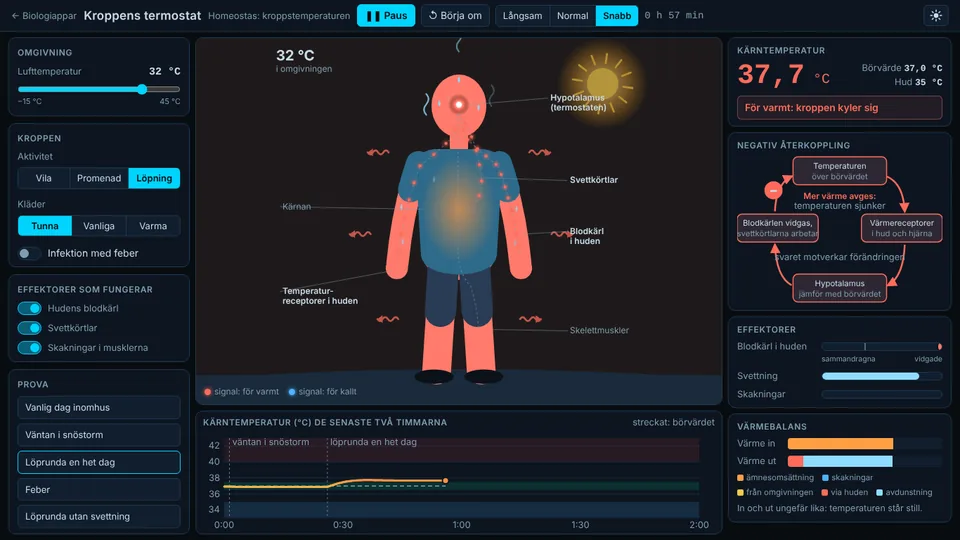
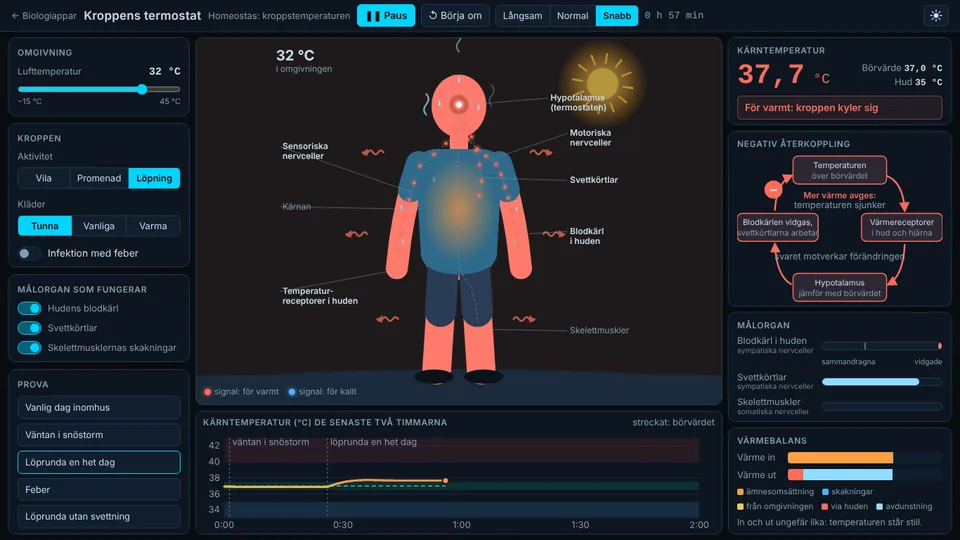
Kroppens termostat: bokens begrepp, målorgan i stället för effektorer
Samma ändring som i pedagogiska_webbappar: målorgan i stället för effektor,
etiketter för sensoriska och motoriska nervceller och vilken del av
nervsystemet som styr varje målorgan. Biologisidans kort, README och
skärmbilderna följer med.

Claude-Session: https://claude.ai/code/session_01HNnAZBM4jYtv7NB6EJuSMz

diff --git a/kroppstemperatur/index.html b/kroppstemperatur/index.html
@@ -166,7 +166,8 @@
 
   .matare { display: flex; flex-direction: column; gap: 7px; }
   .matare-rad { display: grid; grid-template-columns: 112px 1fr; align-items: center; gap: 8px; font-size: 13px; }
-  .matare-rad .namn { color: var(--text-dim); }
+  .matare-rad .namn { color: var(--text-dim); line-height: 1.2; }
+  .matare-rad .namn small { display: block; font-size: 10.5px; opacity: .8; }
   .stapel { height: 12px; border-radius: 6px; background: var(--bg3); border: 1px solid var(--border); position: relative; overflow: hidden; }
   .stapel .fyll { position: absolute; top: 0; bottom: 0; left: 0; width: 0; border-radius: 6px; }
   .stapel .mitt { position: absolute; top: -1px; bottom: -1px; width: 2px; background: var(--text-dim); opacity: .6; }
@@ -256,11 +257,11 @@
       <label class="vaxel feber" style="margin-top:14px"><input type="checkbox" id="feber"><span class="spar"></span>Infektion med feber</label>
     </section>
     <section class="panel">
-      <h2>Effektorer som fungerar</h2>
+      <h2>Målorgan som fungerar</h2>
       <div class="falt" style="gap:9px">
         <label class="vaxel"><input type="checkbox" id="eff-blodkarl" checked><span class="spar"></span>Hudens blodkärl</label>
         <label class="vaxel"><input type="checkbox" id="eff-svett" checked><span class="spar"></span>Svettkörtlar</label>
-        <label class="vaxel"><input type="checkbox" id="eff-skak" checked><span class="spar"></span>Skakningar i musklerna</label>
+        <label class="vaxel"><input type="checkbox" id="eff-skak" checked><span class="spar"></span>Skelettmusklernas skakningar</label>
       </div>
     </section>
     <section class="panel">
@@ -291,14 +292,14 @@
       <svg id="slinga-svg" viewBox="0 0 294 212" role="img" aria-label="Återkopplingsslingan"></svg>
     </section>
     <section class="panel">
-      <h2>Effektorer</h2>
+      <h2>Målorgan</h2>
       <div class="matare">
         <div>
-          <div class="matare-rad"><span class="namn">Blodkärl i huden</span><div class="stapel" id="stapel-karl"><div class="mitt" style="left:35%"></div><div class="markor"></div></div></div>
+          <div class="matare-rad"><span class="namn">Blodkärl i huden<small>sympatiska nervceller</small></span><div class="stapel" id="stapel-karl"><div class="mitt" style="left:35%"></div><div class="markor"></div></div></div>
           <div class="matare-rad"><span></span><div class="stapel-skala"><span>sammandragna</span><span>vidgade</span></div></div>
         </div>
-        <div class="matare-rad"><span class="namn">Svettning</span><div class="stapel" id="stapel-svett"><div class="fyll" style="background:var(--svett)"></div></div></div>
-        <div class="matare-rad"><span class="namn">Skakningar</span><div class="stapel" id="stapel-skak"><div class="fyll" style="background:var(--kall)"></div></div></div>
+        <div class="matare-rad"><span class="namn">Svettkörtlar<small>sympatiska nervceller</small></span><div class="stapel" id="stapel-svett"><div class="fyll" style="background:var(--svett)"></div></div></div>
+        <div class="matare-rad"><span class="namn">Skelettmuskler<small>somatiska nervceller</small></span><div class="stapel" id="stapel-skak"><div class="fyll" style="background:var(--kall)"></div></div></div>
       </div>
     </section>
     <section class="panel">
@@ -334,7 +335,7 @@ const klamp = (x, a, b) => Math.max(a, Math.min(b, x));
    En kärna med en temperatur T (°C) och värmekapacitet C. Värme bildas av
    ämnesomsättning och skakningar och avges via huden (strålning, ledning,
    konvektion) och genom avdunstning av svett. Hypotalamus jämför en samlad
-   temperatursignal (kärnan och huden) med börvärdet och styr tre effektorer,
+   temperatursignal (kärnan och huden) med börvärdet och styr tre målorgan,
    som var och en följer sin styrsignal med en fördröjning.
    ========================================================================= */
 const PARAM = {
@@ -349,7 +350,7 @@ const PARAM = {
   vNeutral: 0.35,           // blodkärlens läge när ingen reglering behövs
   hudVikt: 0.02,            // hur mycket hudens temperatur väger in i hypotalamus signal
   hudNeutral: 32.5,
-  tau: { v: 90, s: 150, k: 60 },   // s, effektorernas fördröjning
+  tau: { v: 90, s: 150, k: 60 },   // s, målorganens fördröjning
   borvarde: 37.0, borvardeFeber: 39.0,
 };
 
@@ -423,9 +424,9 @@ const TEXT = {
   akt: { vila: 'vila', promenad: 'promenad', lopning: 'löpning' },
   klader: { tunna: 'tunna kläder', vanliga: 'vanliga kläder', varma: 'varma kläder' },
   slinga: {
-    varm: { forandring: ['Temperaturen', 'över börvärdet'], receptor: ['Värmereceptorer', 'i hud och hjärna'], centrum: ['Hypotalamus', 'jämför med börvärdet'], effektor: ['Blodkärlen vidgas,', 'svettkörtlarna arbetar'], svar: ['Mer värme avges:', 'temperaturen sjunker'] },
-    kall: { forandring: ['Temperaturen', 'under börvärdet'], receptor: ['Köldreceptorer', 'i hud och hjärna'], centrum: ['Hypotalamus', 'jämför med börvärdet'], effektor: ['Blodkärlen dras ihop,', 'musklerna skakar'], svar: ['Mindre avges, mer bildas:', 'temperaturen stiger'] },
-    lugn: { forandring: ['Temperaturen', 'nära börvärdet'], receptor: ['Temperatur-', 'receptorer'], centrum: ['Hypotalamus', 'jämför med börvärdet'], effektor: ['Små ändringar', 'av blodflödet i huden'], svar: ['Temperaturen', 'hålls stabil'] },
+    varm: { forandring: ['Temperaturen', 'över börvärdet'], receptor: ['Värmereceptorer', 'i hud och hjärna'], centrum: ['Hypotalamus', 'jämför med börvärdet'], malorgan: ['Blodkärlen vidgas,', 'svettkörtlarna arbetar'], svar: ['Mer värme avges:', 'temperaturen sjunker'] },
+    kall: { forandring: ['Temperaturen', 'under börvärdet'], receptor: ['Köldreceptorer', 'i hud och hjärna'], centrum: ['Hypotalamus', 'jämför med börvärdet'], malorgan: ['Blodkärlen dras ihop,', 'musklerna skakar'], svar: ['Mindre avges, mer bildas:', 'temperaturen stiger'] },
+    lugn: { forandring: ['Temperaturen', 'nära börvärdet'], receptor: ['Temperatur-', 'receptorer'], centrum: ['Hypotalamus', 'jämför med börvärdet'], malorgan: ['Små ändringar', 'av blodflödet i huden'], svar: ['Temperaturen', 'hålls stabil'] },
   },
 };
 
@@ -625,6 +626,8 @@ if (typeof document !== 'undefined') {
     svett: etikett('Svettkörtlar', 470, 222, 340, 214),
     skak: etikett('Skelettmuskler', 470, 452, 352, 446),
     karna: etikett('Kärnan', 30, 262, 244, 262),
+    sens: etikett('Sensoriska\nnervceller', 30, 170, 228, 236),
+    mot: etikett('Motoriska\nnervceller', 470, 150, 348, 186),
   };
 
   // ---------- partiklar ----------
@@ -732,6 +735,8 @@ if (typeof document !== 'undefined') {
 
     et.hypo.classList.toggle('aktiv', Math.abs(e) > 0.12);
     et.rec.classList.toggle('aktiv', Math.abs(e) > 0.12);
+    et.sens.classList.toggle('aktiv', Math.abs(e) > 0.12);
+    et.mot.classList.toggle('aktiv', Math.abs(vAvv) > 0.15 || z.s > 0.05 || z.k > 0.05);
     et.karl.classList.toggle('aktiv', Math.abs(vAvv) > 0.15);
     et.svett.classList.toggle('aktiv', z.s > 0.05);
     et.skak.classList.toggle('aktiv', z.k > 0.05);
@@ -745,8 +750,8 @@ if (typeof document !== 'undefined') {
   const pilspets = el('marker', { id: 'pil', viewBox: '0 0 10 10', refX: 8, refY: 5, markerWidth: 6, markerHeight: 6, orient: 'auto-start-reverse' }, slDefs);
   const pilspetsP = el('path', { d: 'M0 0 L10 5 L0 10 Z' }, pilspets);
   const noder = {};
-  const nodPos = { forandring: [147, 22], receptor: [236, 104], centrum: [147, 190], effektor: [58, 104] };
-  // förändring → receptorer → styrcentrum → effektorer → (svaret motverkar förändringen)
+  const nodPos = { forandring: [147, 22], receptor: [236, 104], centrum: [147, 190], malorgan: [58, 104] };
+  // förändring → receptorer → styrcentrum → målorgan → (svaret motverkar förändringen)
   const pilar = [
     el('path', { d: 'M214 30 Q238 40 240 80', class: 'slinga-pil', 'marker-end': 'url(#pil)' }, SL),
     el('path', { d: 'M240 128 Q238 174 216 186', class: 'slinga-pil', 'marker-end': 'url(#pil)' }, SL),
@@ -814,7 +819,7 @@ if (typeof document !== 'undefined') {
     st.className = 'status ' + klass;
     ritaSlinga(lage);
 
-    // effektorer
+    // målorgan
     const karl = $('stapel-karl');
     karl.classList.toggle('ur-funktion', !inst.blodkarl);
     const m = karl.querySelector('.markor');

diff --git a/biologi/index.html b/biologi/index.html
@@ -181,9 +181,9 @@
       <div class="text">
         <h2><a href="../kroppstemperatur/">Kroppens termostat</a><span class="version">0.1</span></h2>
         <p>Hur håller kroppen sig nära 37 °C i snöstorm, i värmebölja och under en löprunda? Ändra lufttemperatur,
-        aktivitet och kläder och se hur hypotalamus styr hudens blodkärl, svettkörtlarna och skakningarna, med
-        nervsignaler, svett och värmeflöden direkt i bilden.</p>
-        <p>Bredvid visas den negativa återkopplingsslingan, värmebalansen och temperaturkurvan. Slå av en effektor
+        aktivitet och kläder och se hur hypotalamus via sensoriska och motoriska nervceller styr målorganen: hudens
+        blodkärl, svettkörtlarna och skelettmusklerna, med nervsignaler, svett och värmeflöden direkt i bilden.</p>
+        <p>Bredvid visas den negativa återkopplingsslingan, värmebalansen och temperaturkurvan. Slå av ett målorgan
         för att se vad som händer när återkopplingen bryts, eller ge kroppen feber och följ det höjda börvärdet.</p>
         <ul class="omraden" aria-label="Områden">
           <li>Homeostas</li><li>Negativ återkoppling</li><li>Temperaturreglering</li><li>Hypotalamus</li><li>Feber</li><li>Demo i helklass</li>

diff --git a/README.md b/README.md
@@ -40,7 +40,7 @@ I fritt bygge bygger eleven på en tom duk med egna storheter, källor, förlust
 
 ## Kroppens termostat
 
-En demo av homeostas för genomgången i helklass: en människa i en omgivning från −15 till 45 °C, med reglage för aktivitet, kläder och feber. Hypotalamus jämför temperaturen med börvärdet och styr hudens blodkärl, svettkörtlarna och skakningarna. Nervsignaler, hudfärg, svett och värmeflöden syns i bilden, och bredvid visas den negativa återkopplingsslingan, värmebalansen och temperaturkurvan. Effektorerna kan slås av för att visa vad som händer när återkopplingen bryts.
+En demo av homeostas för genomgången i helklass: en människa i en omgivning från −15 till 45 °C, med reglage för aktivitet, kläder och feber. Hypotalamus jämför temperaturen med börvärdet och styr via sensoriska och motoriska nervceller målorganen: hudens blodkärl, svettkörtlarna och skelettmusklerna. Nervsignaler, hudfärg, svett och värmeflöden syns i bilden, och bredvid visas den negativa återkopplingsslingan, värmebalansen och temperaturkurvan. Målorganen kan slås av för att visa vad som händer när återkopplingen bryts.
 
 ## Ljust och mörkt tema
 
